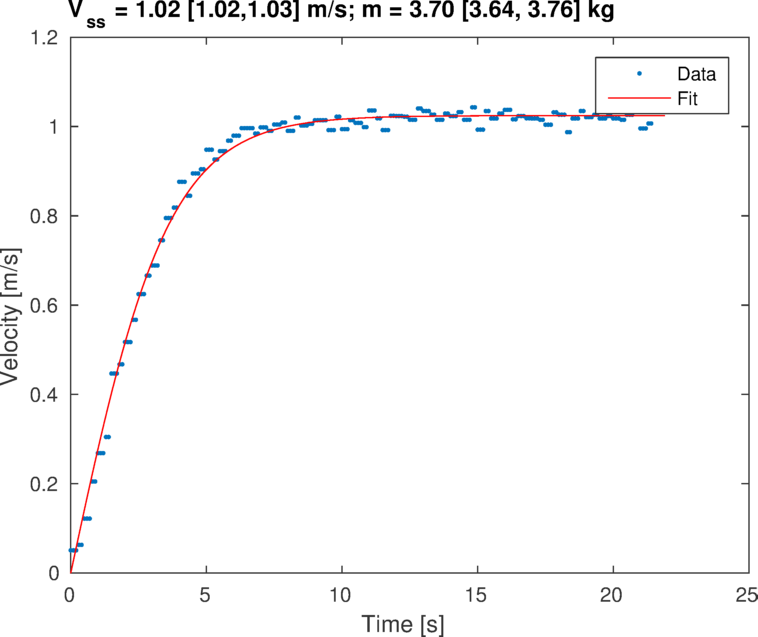
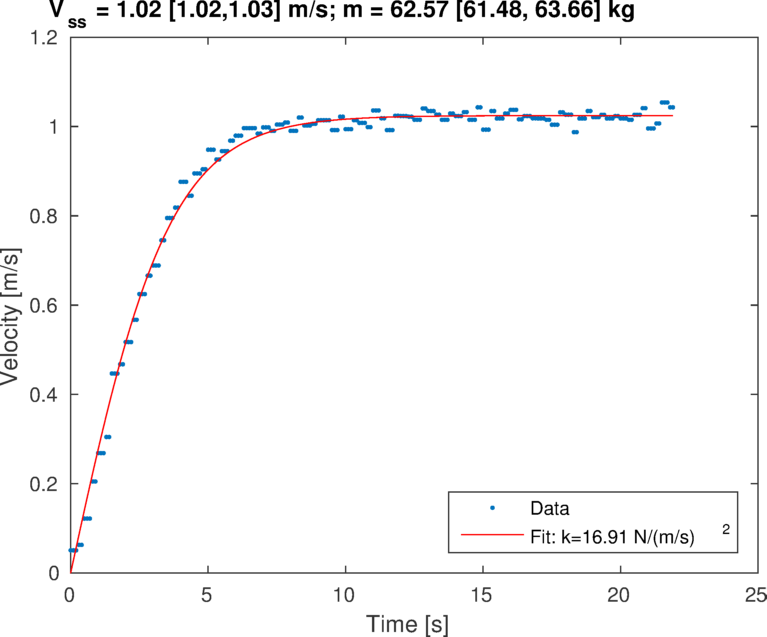
running again

diff --git a/inertia_id/dynamic_yaw_test_id_ex.m b/inertia_id/dynamic_yaw_test_id_ex.m
@@ -1,10 +1,10 @@
 %% Load mat data
-load('2017-03-10-13-03-49.bag.mat')
+load('dynamic_yaw_test_data.mat')
 
 %% Look at all data
 figure(1)
 clf()
-plot(ts_odomv.Time-ts_odomv.Time(1),ts_odomv.Data,'.')
+plot(time,ang_vel)
 hold on
 plot(ts_cmd.Time-ts_odomv.Time(1),ts_cmd.Data,'o')
 legend([cols_odomv;cols_cmd])
@@ -38,7 +38,7 @@ for ii = 1:length(T0)
 
     ttt = tt(I:J)-tt(I);
     vvv = vv(I:J);
-    figure()
+    figure(3)
     clf()
     plot(ttt,vvv,'.')
     xlabel('Time [s]');
@@ -61,6 +61,7 @@ for ii = 1:length(T0)
     c = confint(f0);
 
     vhat = feval(f0,ttt);
+    figure(3)
     hold on
     plot(ttt,vhat,'r-')
     legend('Data',sprintf('Fit: k=%.2f N/(m/s)^2',k),'location','southeast')
@@ -69,6 +70,7 @@ for ii = 1:length(T0)
 
     % Print figure to file
     exfig(150,sprintf('fit_%d.png',ii));
+    pause
 end
 
 
